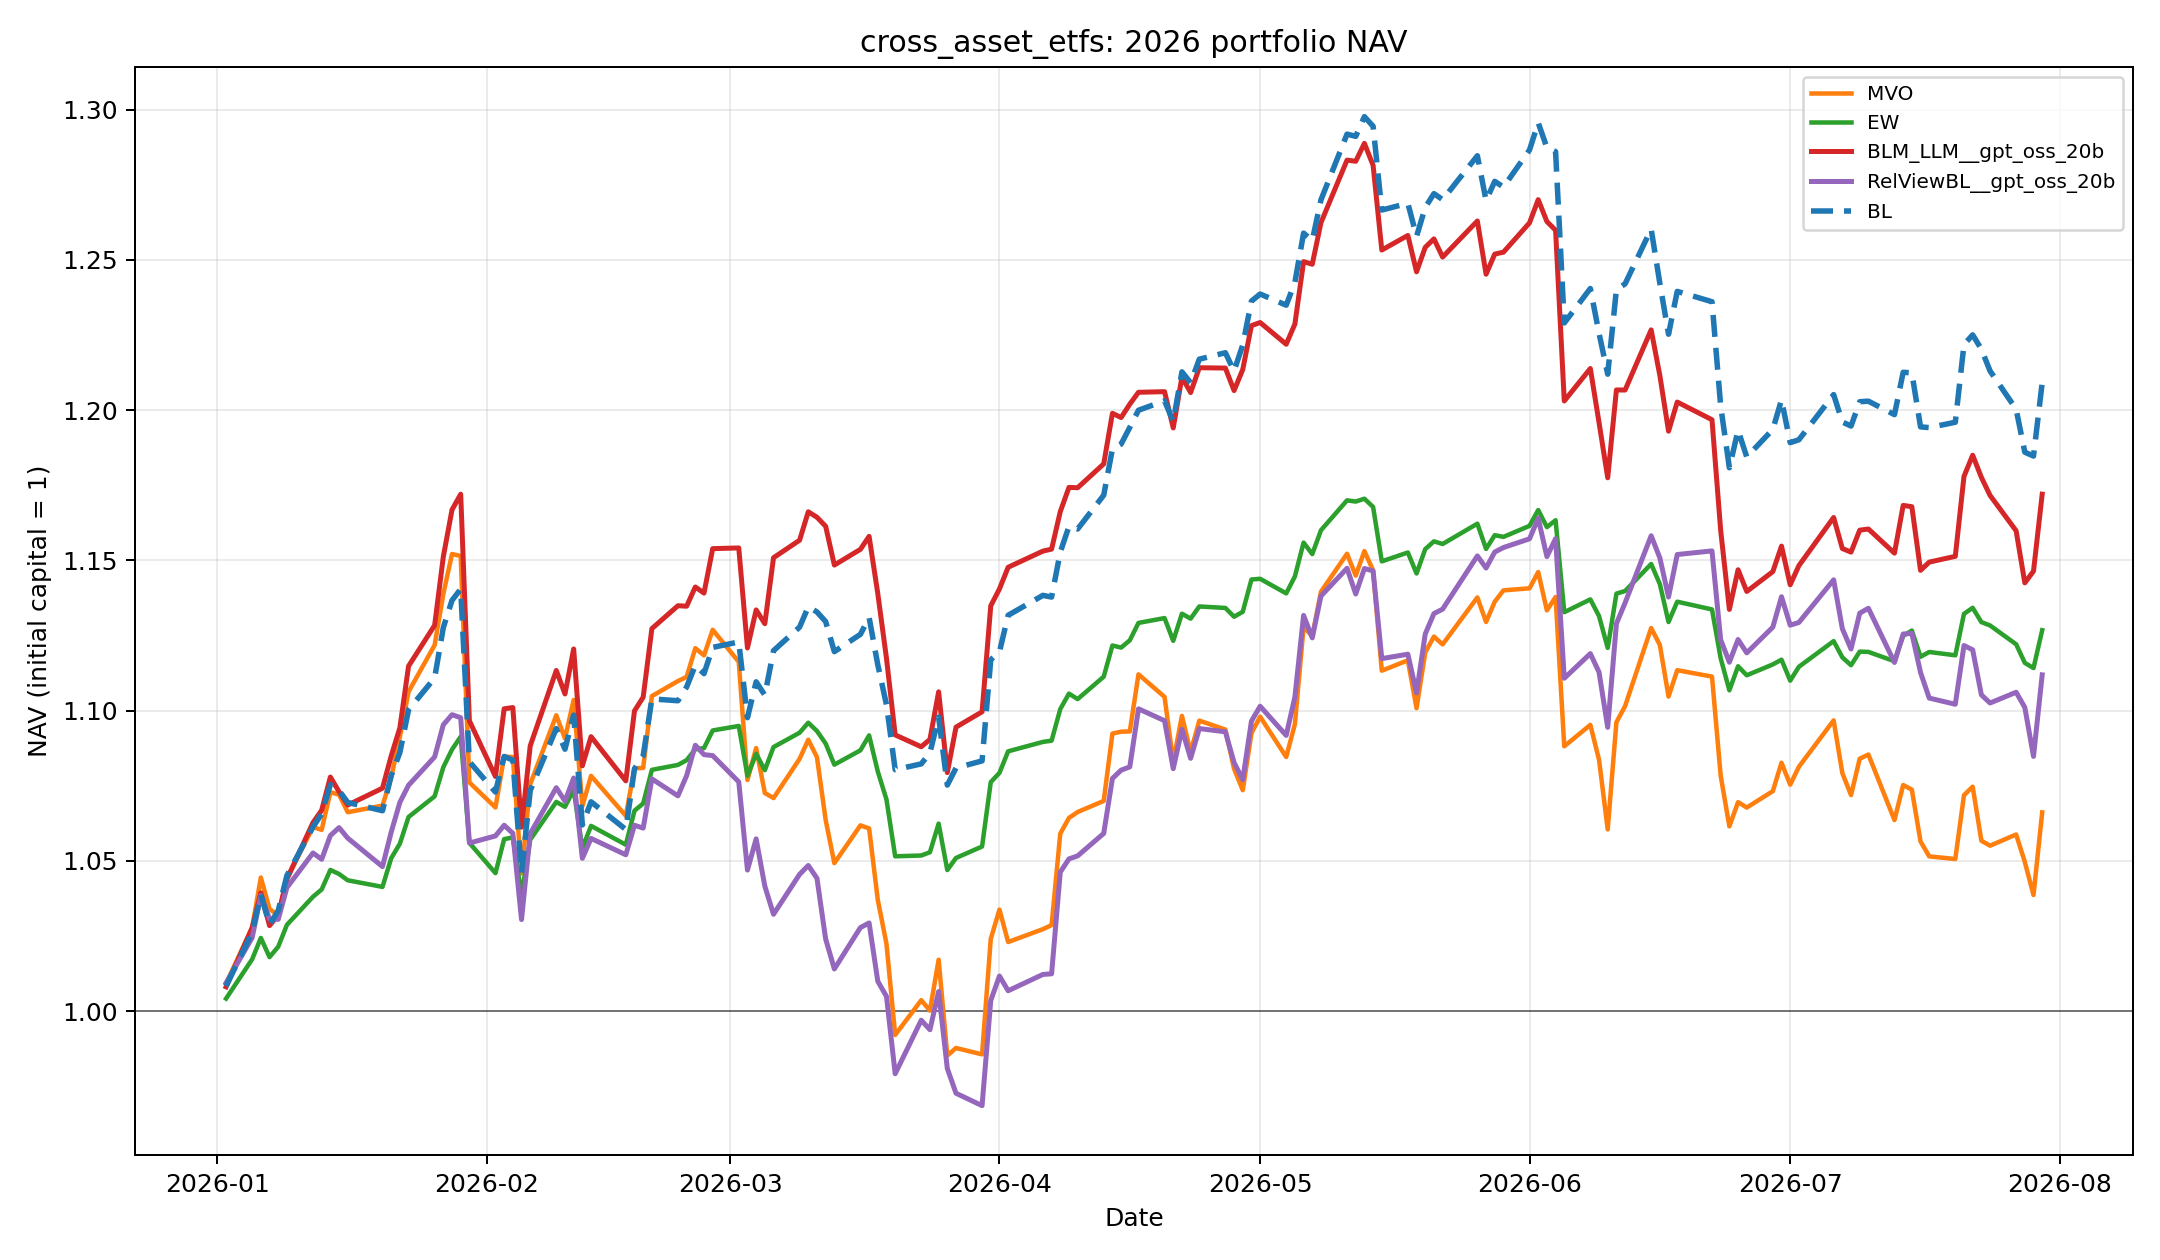
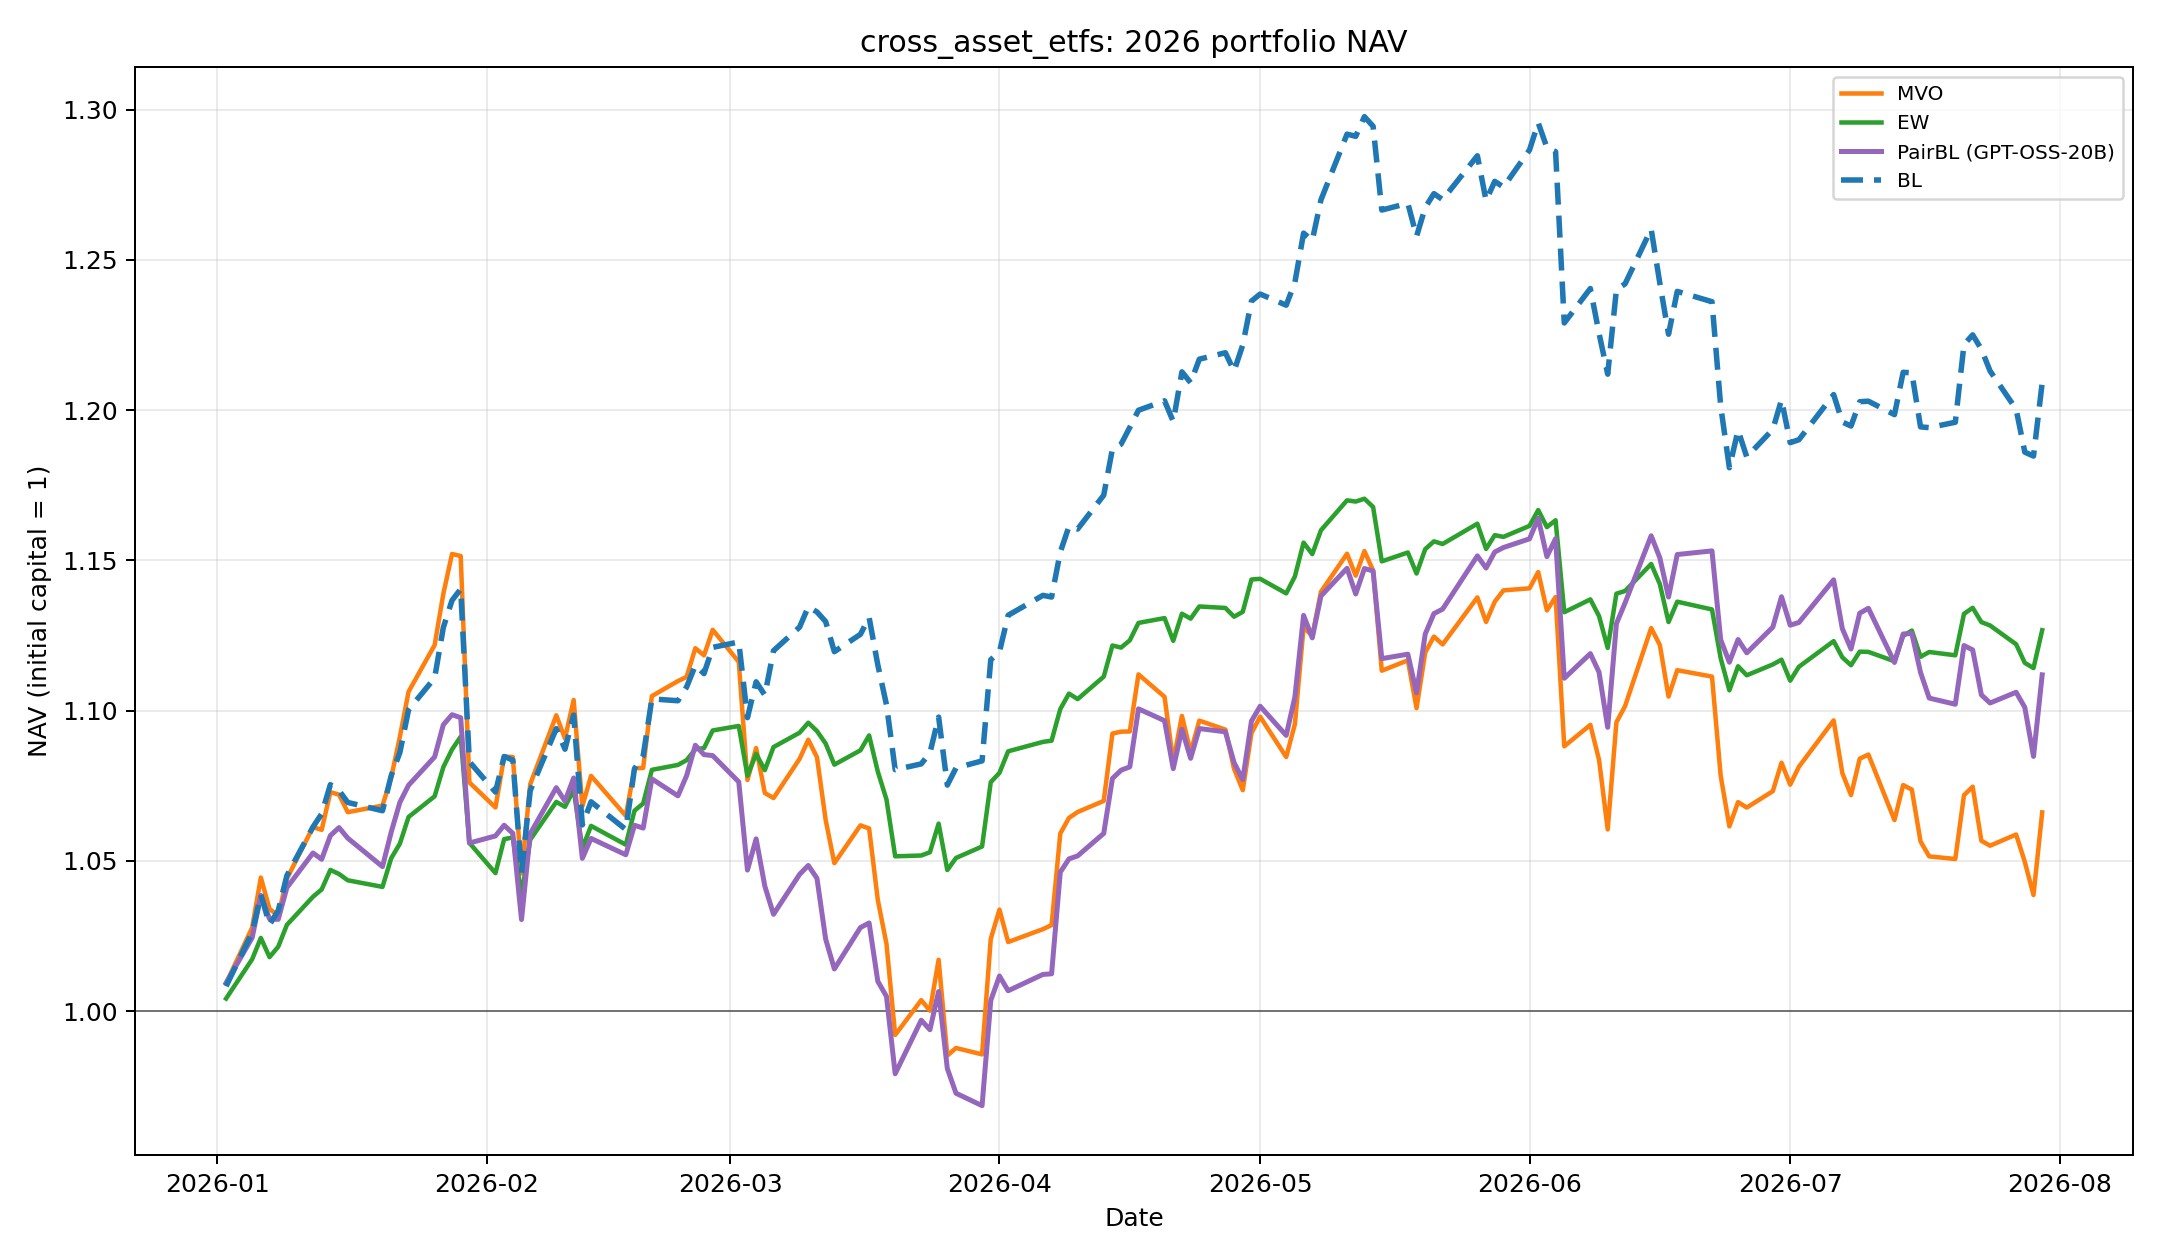
Focus README results on PairBL

diff --git a/run_nvidia_nim_experiment.py b/run_nvidia_nim_experiment.py
@@ -437,6 +437,9 @@ def evaluate_method(
 def plot_nav(daily: pd.DataFrame, title: str, output: Path) -> None:
     if daily.empty:
         return
+    daily = daily[
+        ~daily["Method"].astype(str).str.startswith("BLM_LLM__")
+    ].copy()
     fig, axis = plt.subplots(figsize=(12, 7))
     style_by_method: dict[str, dict[str, Any]] = {
         "BL": {
@@ -463,8 +466,12 @@ def plot_nav(daily: pd.DataFrame, title: str, output: Path) -> None:
             style = {"color": "tab:purple", "linewidth": 2.0, "zorder": 4}
         else:
             style = style_by_method.get(method, {})
+        display_label = (
+            "PairBL (GPT-OSS-20B)"
+            if method.startswith("RelViewBL__") else method
+        )
         axis.plot(
-            pd.to_datetime(ordered["Date"]), ordered["NAV"], label=method,
+            pd.to_datetime(ordered["Date"]), ordered["NAV"], label=display_label,
             linewidth=style.get("linewidth", 1.8),
             color=style.get("color"),
             linestyle=style.get("linestyle", "-"),
@@ -537,6 +544,14 @@ def postprocess_existing(output_root: Path, dataset_ids: list[str]) -> None:
     weights = pd.read_csv(summary_root / "weights_long.csv")
     metrics = pd.read_csv(summary_root / "method_metrics.csv")
     save_per_dataset_summaries(output_root, dataset_ids, daily, weights, metrics)
+    aggregate_path = summary_root / "equal_dataset_daily_nav.csv"
+    if aggregate_path.exists():
+        aggregate_daily = pd.read_csv(aggregate_path)
+        plot_nav(
+            aggregate_daily,
+            "Equal-dataset aggregate: 2026 NAV",
+            output_root / "plots" / "aggregate_nav_2026.png",
+        )
     print(f"Regenerated per-dataset metrics, returns, weights, and plots under {output_root}")
 
 

diff --git a/README.md b/README.md
@@ -4,58 +4,84 @@
 
 ![model](figure/model.png)
 
-## NVIDIA NIM: 2025 Views and 2026 Backtest
+## PairBL: 2025 Views and 2026 Backtest
 
-The NVIDIA NIM experiment forms each portfolio once using 250 daily return
-observations from 2025 and holds the fixed weights over 144 trading sessions
-from 2 January to 30 July 2026. All methods use the same long-only optimizer,
-15% per-asset cap, and 10 bps entry cost. The three 15-asset universes are US
-technology equities (including NVDA), US financial equities, and cross-asset
-ETFs. Each successful LLM view uses three repeated calls; RelViewBL uses a
-15-pair sparse comparison graph and a 0.55 abstention threshold.
+The experiment forms each portfolio once using 250 daily return observations
+from 2025 and holds the fixed weights over 144 trading sessions from 2 January
+to 30 July 2026. All methods use the same long-only optimizer, 15% per-asset
+cap, and 10 bps entry cost. PairBL uses GPT-OSS-20B through NVIDIA NIM, three
+repeated calls per comparison, a 15-pair sparse comparison graph, and a 0.55
+abstention threshold. The comparison methods are no-view Black--Litterman
+(BL), mean--variance optimization (MVO), and equal weighting (EW).
 
-The hosted NVIDIA NIM endpoint returned HTTP 410 for
-`qwen/qwen3-next-80b-a3b-instruct` and
-`mistralai/mixtral-8x7b-instruct-v0.1`, reporting that both reached end of life
-on 27 July 2026. They remain explicit `unavailable` rows in the saved method
-inventory and metrics rather than being silently replaced. The complete
-LLM-based results below therefore use `openai/gpt-oss-20b`.
+The three 15-asset universes are US technology equities (including NVDA), US
+financial equities, and cross-asset ETFs. The tables below contain every saved
+evaluation metric for the four reported methods.
 
-### Cumulative Return by Dataset
+### US Technology Equities
 
-| Dataset | BL | MVO | EW | BLM-LLM (GPT-OSS-20B) | RelViewBL (GPT-OSS-20B) |
-|---|---:|---:|---:|---:|---:|
-| US technology | +49.55% | +49.66% | +18.98% | +49.55% | **+58.48%** |
-| US financials | +4.99% | +7.55% | +8.08% | +6.65% | **+9.11%** |
-| Cross-asset ETFs | **+20.91%** | +6.61% | +12.67% | +17.20% | +11.19% |
+| Method | Days | Cumulative return | Annualized return | Annualized volatility | Sharpe | Max drawdown | Sortino | Calmar | Final NAV |
+|---|---:|---:|---:|---:|---:|---:|---:|---:|---:|
+| BL | 144 | 49.55% | 102.25% | 47.39% | 1.724 | -25.75% | 2.559 | 3.970 | 1.496 |
+| MVO | 144 | 49.66% | 102.52% | 43.50% | 1.841 | -23.18% | 2.776 | 4.422 | 1.497 |
+| EW | 144 | 18.98% | 35.55% | 26.65% | 1.274 | -15.77% | 1.879 | 2.254 | 1.190 |
+| **PairBL (GPT-OSS-20B)** | **144** | **58.48%** | **123.85%** | **46.62%** | **1.963** | **-25.68%** | **2.934** | **4.824** | **1.585** |
 
-BL and BLM-LLM produce identical optimized weights in the US technology
-universe, so their NAV paths overlap exactly in that plot. BL is rendered as a
-blue dashed line over the red BLM-LLM line to keep both methods visible.
+| Method | Mean daily return | Best day | Worst day | Positive days | Annualized downside deviation | Daily VaR 95% | Daily CVaR 95% | Turnover | Cost (bps) |
+|---|---:|---:|---:|---:|---:|---:|---:|---:|---:|
+| BL | 0.32% | 9.04% | -9.73% | 61.11% | 31.93% | -4.30% | -5.94% | 1.00 | 10 |
+| MVO | 0.32% | 8.58% | -8.99% | 60.42% | 28.84% | -3.58% | -5.27% | 1.00 | 10 |
+| EW | 0.13% | 4.01% | -6.48% | 54.17% | 18.07% | -2.38% | -3.32% | 1.00 | 10 |
+| **PairBL (GPT-OSS-20B)** | **0.36%** | **8.75%** | **-9.54%** | **60.42%** | **31.19%** | **-4.35%** | **-5.92%** | **1.00** | **10** |
+
+![US technology NAV](experiments/nvidia_nim_2025_2026/us_technology/plots/nav_2026.png)
+
+### US Financial Equities
+
+| Method | Days | Cumulative return | Annualized return | Annualized volatility | Sharpe | Max drawdown | Sortino | Calmar | Final NAV |
+|---|---:|---:|---:|---:|---:|---:|---:|---:|---:|
+| BL | 144 | 4.99% | 8.90% | 26.03% | 0.458 | -20.10% | 0.626 | 0.443 | 1.050 |
+| MVO | 144 | 7.55% | 13.58% | 25.03% | 0.634 | -18.26% | 0.889 | 0.744 | 1.075 |
+| EW | 144 | 8.08% | 14.57% | 18.77% | 0.818 | -13.16% | 1.165 | 1.107 | 1.081 |
+| **PairBL (GPT-OSS-20B)** | **144** | **9.11%** | **16.48%** | **25.70%** | **0.722** | **-18.13%** | **0.998** | **0.909** | **1.091** |
+
+| Method | Mean daily return | Best day | Worst day | Positive days | Annualized downside deviation | Daily VaR 95% | Daily CVaR 95% | Turnover | Cost (bps) |
+|---|---:|---:|---:|---:|---:|---:|---:|---:|---:|
+| BL | 0.05% | 4.46% | -6.24% | 53.47% | 19.03% | -2.86% | -3.81% | 1.00 | 10 |
+| MVO | 0.06% | 4.58% | -5.03% | 55.56% | 17.84% | -2.78% | -3.56% | 1.00 | 10 |
+| EW | 0.06% | 3.25% | -3.77% | 53.47% | 13.18% | -1.96% | -2.59% | 1.00 | 10 |
+| **PairBL (GPT-OSS-20B)** | **0.07%** | **4.39%** | **-6.08%** | **57.64%** | **18.59%** | **-2.85%** | **-3.72%** | **1.00** | **10** |
+
+![US financial NAV](experiments/nvidia_nim_2025_2026/us_financials/plots/nav_2026.png)
+
+### Cross-Asset ETFs
+
+| Method | Days | Cumulative return | Annualized return | Annualized volatility | Sharpe | Max drawdown | Sortino | Calmar | Final NAV |
+|---|---:|---:|---:|---:|---:|---:|---:|---:|---:|
+| BL | 144 | 20.91% | 39.41% | 19.72% | 1.785 | -9.00% | 2.405 | 4.378 | 1.209 |
+| MVO | 144 | 6.61% | 11.86% | 24.62% | 0.578 | -14.49% | 0.774 | 0.819 | 1.066 |
+| EW | 144 | 12.67% | 23.22% | 12.53% | 1.730 | -5.45% | 2.352 | 4.263 | 1.127 |
+| **PairBL (GPT-OSS-20B)** | **144** | **11.19%** | **20.40%** | **20.62%** | **1.003** | **-11.84%** | **1.432** | **1.722** | **1.112** |
+
+| Method | Mean daily return | Best day | Worst day | Positive days | Annualized downside deviation | Daily VaR 95% | Daily CVaR 95% | Turnover | Cost (bps) |
+|---|---:|---:|---:|---:|---:|---:|---:|---:|---:|
+| BL | 0.14% | 3.11% | -5.04% | 59.03% | 14.63% | -2.05% | -3.19% | 1.00 | 10 |
+| MVO | 0.06% | 3.90% | -6.54% | 54.86% | 18.40% | -2.95% | -3.78% | 1.00 | 10 |
+| EW | 0.09% | 2.03% | -3.24% | 61.11% | 9.22% | -1.45% | -1.97% | 1.00 | 10 |
+| **PairBL (GPT-OSS-20B)** | **0.08%** | **3.61%** | **-4.01%** | **54.86%** | **14.45%** | **-2.53%** | **-2.93%** | **1.00** | **10** |
+
+![Cross-asset ETF NAV](experiments/nvidia_nim_2025_2026/cross_asset_etfs/plots/nav_2026.png)
 
 ### Equal-Dataset Aggregate
 
 | Method | Cumulative return | Sharpe | Maximum drawdown |
 |---|---:|---:|---:|
-| BL | +25.46% | 1.688 | -11.06% |
+| BL | +25.46% | **1.688** | -11.06% |
 | MVO | +21.08% | 1.439 | -13.84% |
 | EW | +13.74% | 1.572 | **-8.85%** |
-| BLM-LLM (GPT-OSS-20B) | +24.93% | **1.693** | -11.20% |
-| RelViewBL (GPT-OSS-20B) | **+25.77%** | 1.657 | -13.17% |
+| **PairBL (GPT-OSS-20B)** | **+25.77%** | 1.657 | -13.17% |
 
-Per-dataset artifacts:
-
-- [US technology metrics](experiments/nvidia_nim_2025_2026/us_technology/results/method_metrics.csv)
-  and [NAV plot](experiments/nvidia_nim_2025_2026/us_technology/plots/nav_2026.png)
-- [US financials metrics](experiments/nvidia_nim_2025_2026/us_financials/results/method_metrics.csv)
-  and [NAV plot](experiments/nvidia_nim_2025_2026/us_financials/plots/nav_2026.png)
-- [Cross-asset ETF metrics](experiments/nvidia_nim_2025_2026/cross_asset_etfs/results/method_metrics.csv)
-  and [NAV plot](experiments/nvidia_nim_2025_2026/cross_asset_etfs/plots/nav_2026.png)
-- [Aggregate NAV plot](experiments/nvidia_nim_2025_2026/plots/aggregate_nav_2026.png),
-  [full report](experiments/nvidia_nim_2025_2026/REPORT.md), and
-  [data catalog](experiments/nvidia_nim_2025_2026/summary/data_catalog.json)
-
-![NVIDIA NIM equal-dataset aggregate NAV](experiments/nvidia_nim_2025_2026/plots/aggregate_nav_2026.png)
+![PairBL equal-dataset aggregate NAV](experiments/nvidia_nim_2025_2026/plots/aggregate_nav_2026.png)
 
 
 
@@ -66,10 +92,8 @@ Per-dataset artifacts:
 .
 ├── run.py                  # Main file to run LLMs and collect their views
 ├── collect_relative_views.py # Collects sparse pairwise LLM views
-├── collect_absolute_views.py # Collects absolute views with the same LLM/provider
 ├── relview_bl.py           # RelView-BL method implementation
 ├── evaluate_relview.py     # Runs one leak-free RelView-BL period
-├── evaluate_absolute_bl.py # Runs comparable absolute-view LLM-BLM
 ├── portfolio_backtest.py   # Shared realized-return metrics
 ├── baselines.py           # Implementation of baseline portfolio strategies
 ├── calculate_llm_returns.py # Calculates returns for LLM-based portfolios
@@ -111,8 +135,7 @@ The evaluation process is split into two main components:
 
 ### 4. RelView-BL (relative LLM views)
 
-`relview_bl.py` adds the consistency-calibrated relative-view method without
-changing the original absolute-return baseline. The pipeline:
+`relview_bl.py` implements the consistency-calibrated pairwise-view pipeline:
 
 1. selects a sparse set of pairs using return correlation, sector, and market-cap similarity;
 2. asks the LLM which asset is more likely to outperform and repeats each comparison;
@@ -223,22 +246,9 @@ scores, posterior returns, and portfolio weights. A companion weights CSV is
 created automatically. The reusable entry point for experiments and ablations
 is `run_relview_bl()` in `relview_bl.py`.
 
-### Same-model Absolute LLM-BLM comparison
+### RelView-BL realized-period evaluation
 
-For a controlled comparison, collect absolute views with the same DeepSeek V4
-Flash model, 30 calls, universe, information set, and disabled thinking:
-
-```powershell
-py collect_absolute_views.py --returns yfinance/returns_2024-06-01_2024-06-30.csv --universe universe.json --repeats 30 --thinking disabled --horizon-days 10 --temperature 0.3 --output responses/deepseek-v4-flash_2024-06-01_2024-06-30.json
-```
-
-Evaluate Absolute LLM-BLM on July realized returns:
-
-```powershell
-py evaluate_absolute_bl.py --returns yfinance/returns_2024-06-01_2024-06-30.csv --views responses/deepseek-v4-flash_2024-06-01_2024-06-30.json --universe universe.json --market-caps market_caps.json --tau 0.025 --risk-aversion 0.1 --market-risk-aversion 2.5 --max-weight 0.1 --realized-returns yfinance/returns_2024-07-01_2024-07-31.csv --evaluation-days 10 --weights-output results/absolute_deepseek_2024-06_weights.csv --returns-output results/absolute_deepseek_2024-06_returns.csv --output results/absolute_deepseek_2024-06.json
-```
-
-Evaluate RelView-BL on the identical period. The operational default delta is
+Evaluate RelView-BL on a closed realized period. The operational default delta is
 `0.60`; keep it explicit in experiments and select it on a validation period,
 not the final test period:
 
